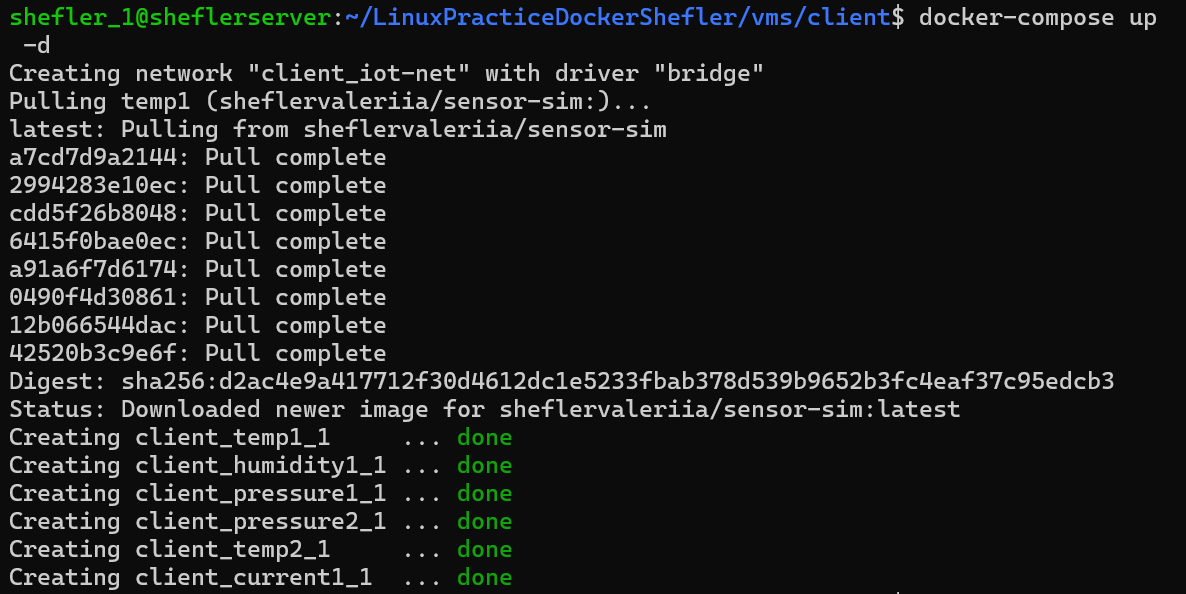
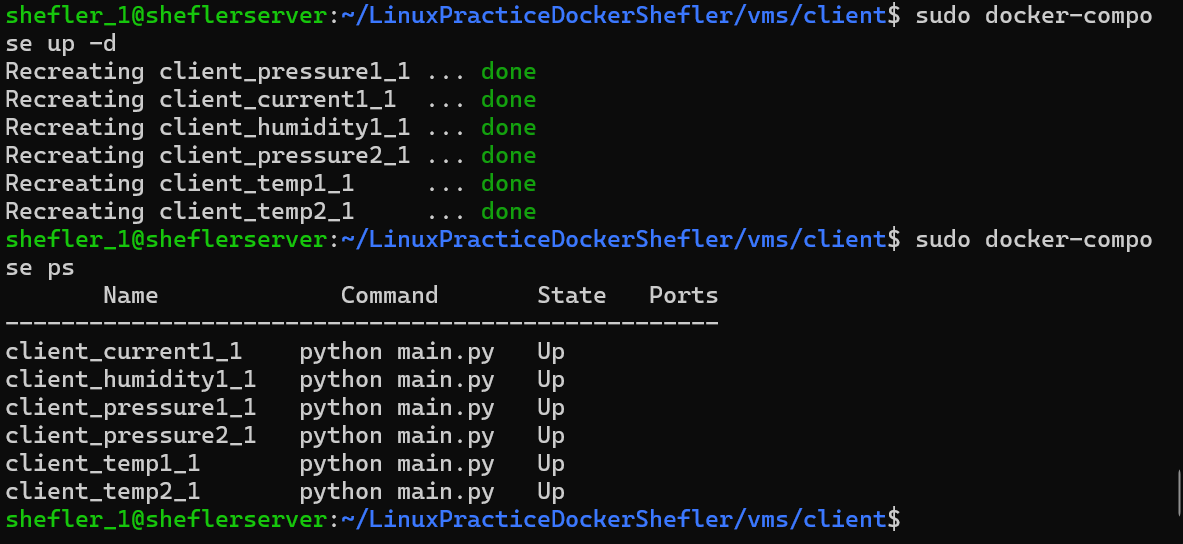
описание изменений

Changed region(s): [[0.0, 0.0, 0.9738, 1.0], [0.5478, 0.5312, 0.6086, 0.5625], [0.4565, 0.5312, 0.5173, 0.5625]]

diff --git a/report.md b/report.md
@@ -426,7 +426,7 @@ docker-compose up -d и проверим, что dashboard не пропал:
 
     services:
     temp1:
-        image: ${DOCKERHUB_USERNAME}/sensor-simulator:latest
+        image: ${DOCKERHUB_USERNAME}/sensor-sim:latest
         environment:
         - SIM_HOST=${MQTT_BROKER_HOST}
         - SIM_PORT=${MQTT_BROKER_PORT}
@@ -435,7 +435,7 @@ docker-compose up -d и проверим, что dashboard не пропал:
         - SIM_TYPE=temperature
 
     temp2:
-        image: ${DOCKERHUB_USERNAME}/sensor-simulator:latest
+        image: ${DOCKERHUB_USERNAME}/sensor-sim:latest
         environment:
         - SIM_HOST=${MQTT_BROKER_HOST}
         - SIM_PORT=${MQTT_BROKER_PORT}
@@ -444,7 +444,7 @@ docker-compose up -d и проверим, что dashboard не пропал:
         - SIM_TYPE=temperature
 
     pressure1:
-        image: ${DOCKERHUB_USERNAME}/sensor-simulator:latest
+        image: ${DOCKERHUB_USERNAME}/sensor-sim:latest
         environment:
         - SIM_HOST=${MQTT_BROKER_HOST}
         - SIM_PORT=${MQTT_BROKER_PORT}
@@ -453,7 +453,7 @@ docker-compose up -d и проверим, что dashboard не пропал:
         - SIM_TYPE=pressure
 
     pressure2:
-        image: ${DOCKERHUB_USERNAME}/sensor-simulator:latest
+        image: ${DOCKERHUB_USERNAME}/sensor-sim:latest
         environment:
         - SIM_HOST=${MQTT_BROKER_HOST}
         - SIM_PORT=${MQTT_BROKER_PORT}
@@ -462,7 +462,7 @@ docker-compose up -d и проверим, что dashboard не пропал:
         - SIM_TYPE=pressure
 
     current1:
-        image: ${DOCKERHUB_USERNAME}/sensor-simulator:latest
+        image: ${DOCKERHUB_USERNAME}/sensor-sim:latest
         environment:
         - SIM_HOST=${MQTT_BROKER_HOST}
         - SIM_PORT=${MQTT_BROKER_PORT}
@@ -471,7 +471,7 @@ docker-compose up -d и проверим, что dashboard не пропал:
         - SIM_TYPE=current
 
     humidity1:
-        image: ${DOCKERHUB_USERNAME}/sensor-simulator:latest
+        image: ${DOCKERHUB_USERNAME}/sensor-sim:latest
         environment:
         - SIM_HOST=${MQTT_BROKER_HOST}
         - SIM_PORT=${MQTT_BROKER_PORT}
@@ -485,3 +485,31 @@ docker-compose up -d и проверим, что dashboard не пропал:
     DOCKERHUB_USERNAME=sheflervaleriia
 
 Ссылка на docker-hub: https://hub.docker.com/repository/docker/sheflervaleriia/sensor-sim/general
+
+Аналогично поступим и с машиной С, создадим .env файл с информацией, которую при необходимости можно будет быстро изменить:  
+    MQTT_HOST=192.168.X.X
+    MQTT_PORT=1883
+    INFLUX_HOST=influxdb
+    INFLUX_PORT=8086
+    INFLUX_DB=sensors
+    INFLUX_USER=telegraf
+    INFLUX_PASS=telegraf  
+
+Тогда в telegraf.conf:  
+    [[inputs.mqtt_consumer]]
+    servers = ["tcp://${MQTT_HOST}:${MQTT_PORT}"]
+    topics = ["sensors/#"]
+    data_format = "value"
+    data_type = "float"
+
+А в docker-compose.yml изменим:  
+  telegraf:
+    image: telegraf
+    container_name: telegraf
+    env_file:
+      - .env
+    volumes:
+      - ./telegraf:/etc/telegraf:ro
+    restart: unless-stopped
+    networks:
+      - server-net

diff --git a/instructions.md b/instructions.md
@@ -5,6 +5,7 @@
     - Ссылку на репозиторий докерхаб студента
     - Три виртаульные машины с задания по Линукс-администрированию
     - На каждой машине необходимо установить: git, docker, docker-compose
+    - На хост необходимо скачать MQTT Explorer
 
 # 1. Проверка репозитория
 Произведем клонирование репозитория студента на каждую виртуальную машину:  
@@ -15,4 +16,13 @@
 На машине LinuxA внесем ряд изменений в файл env. (адрес нашей машины B c mosquitto и интересующий нас докерхаб), например:  
     ![](assets/images/68_checking_last.png)  
     ![](assets/images/69_checking_last.png)  
-
+На этой же машине запустим контейнеры с сенсорами и просмотрим (важно: находясь в папке client):  
+    ![](assets/images/70_checking_last.png)
+Аналогично поступим и на машине B (важно: теперь в папке gateway):  
+    ![](assets/images/71_checking_last.png)  
+Проверим с помощью MQTT Explorer:  
+    ![](assets/images/72_checking_last.png)  
+На машине С также запустим и посмотрим контейнеры (важно: находясь в папке server):  
+    ![](assets/images/73_checking_last.png)  
+    ![](assets/images/74_checking_last.png)  
+Убедившись, что все в порядке, вводим следующие команды: